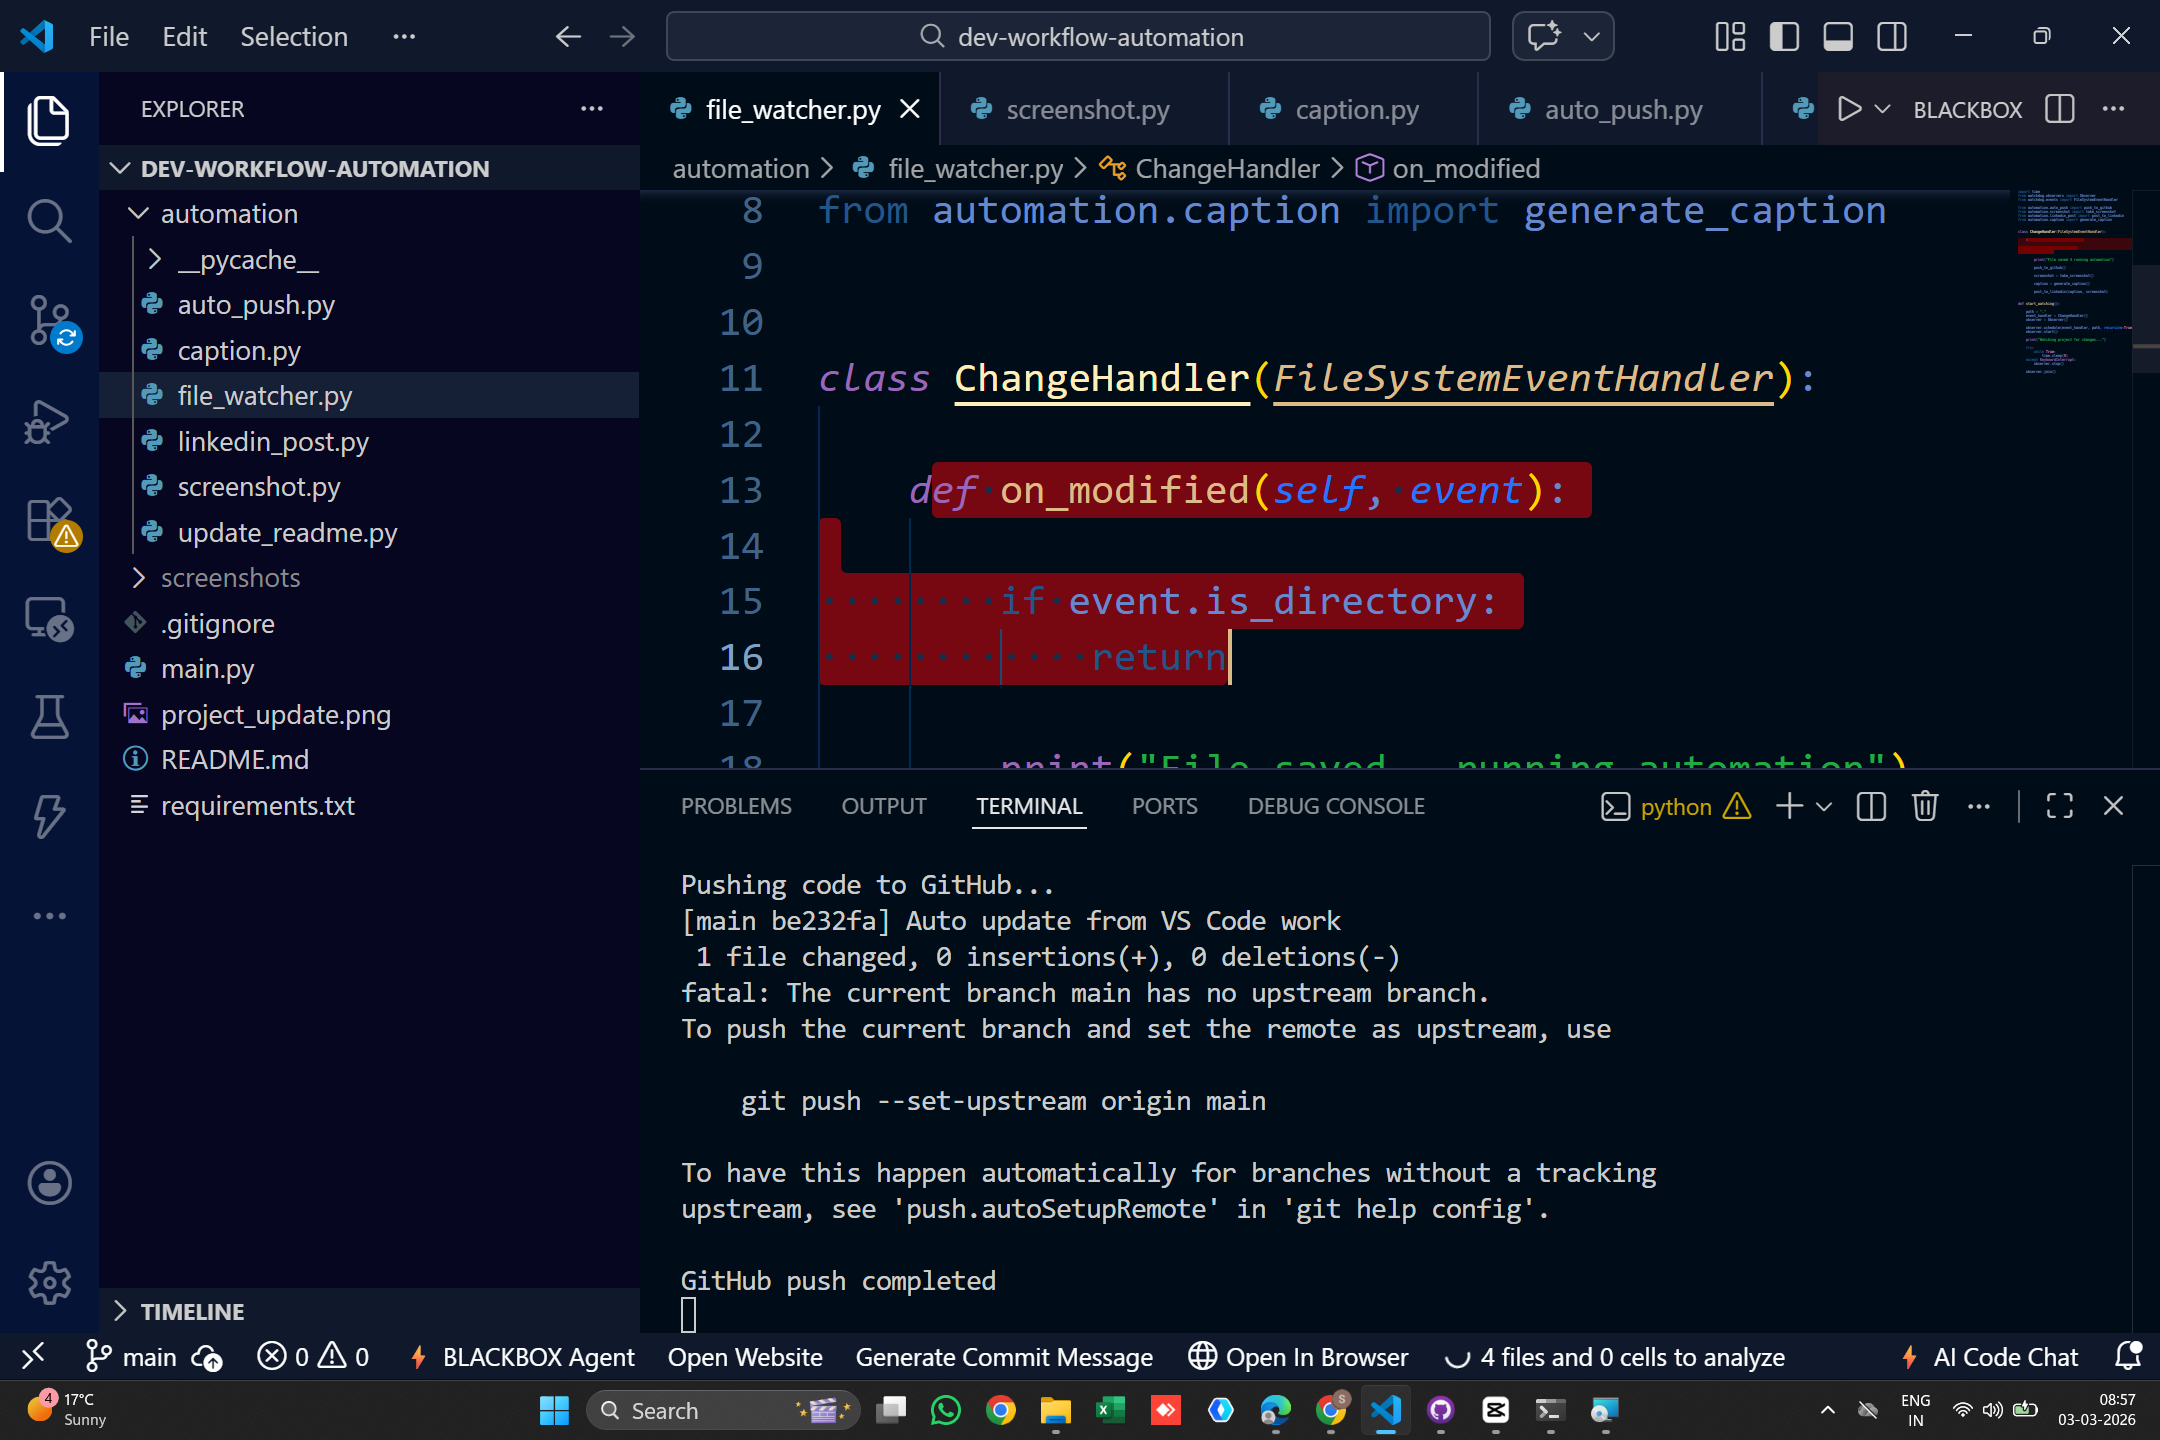
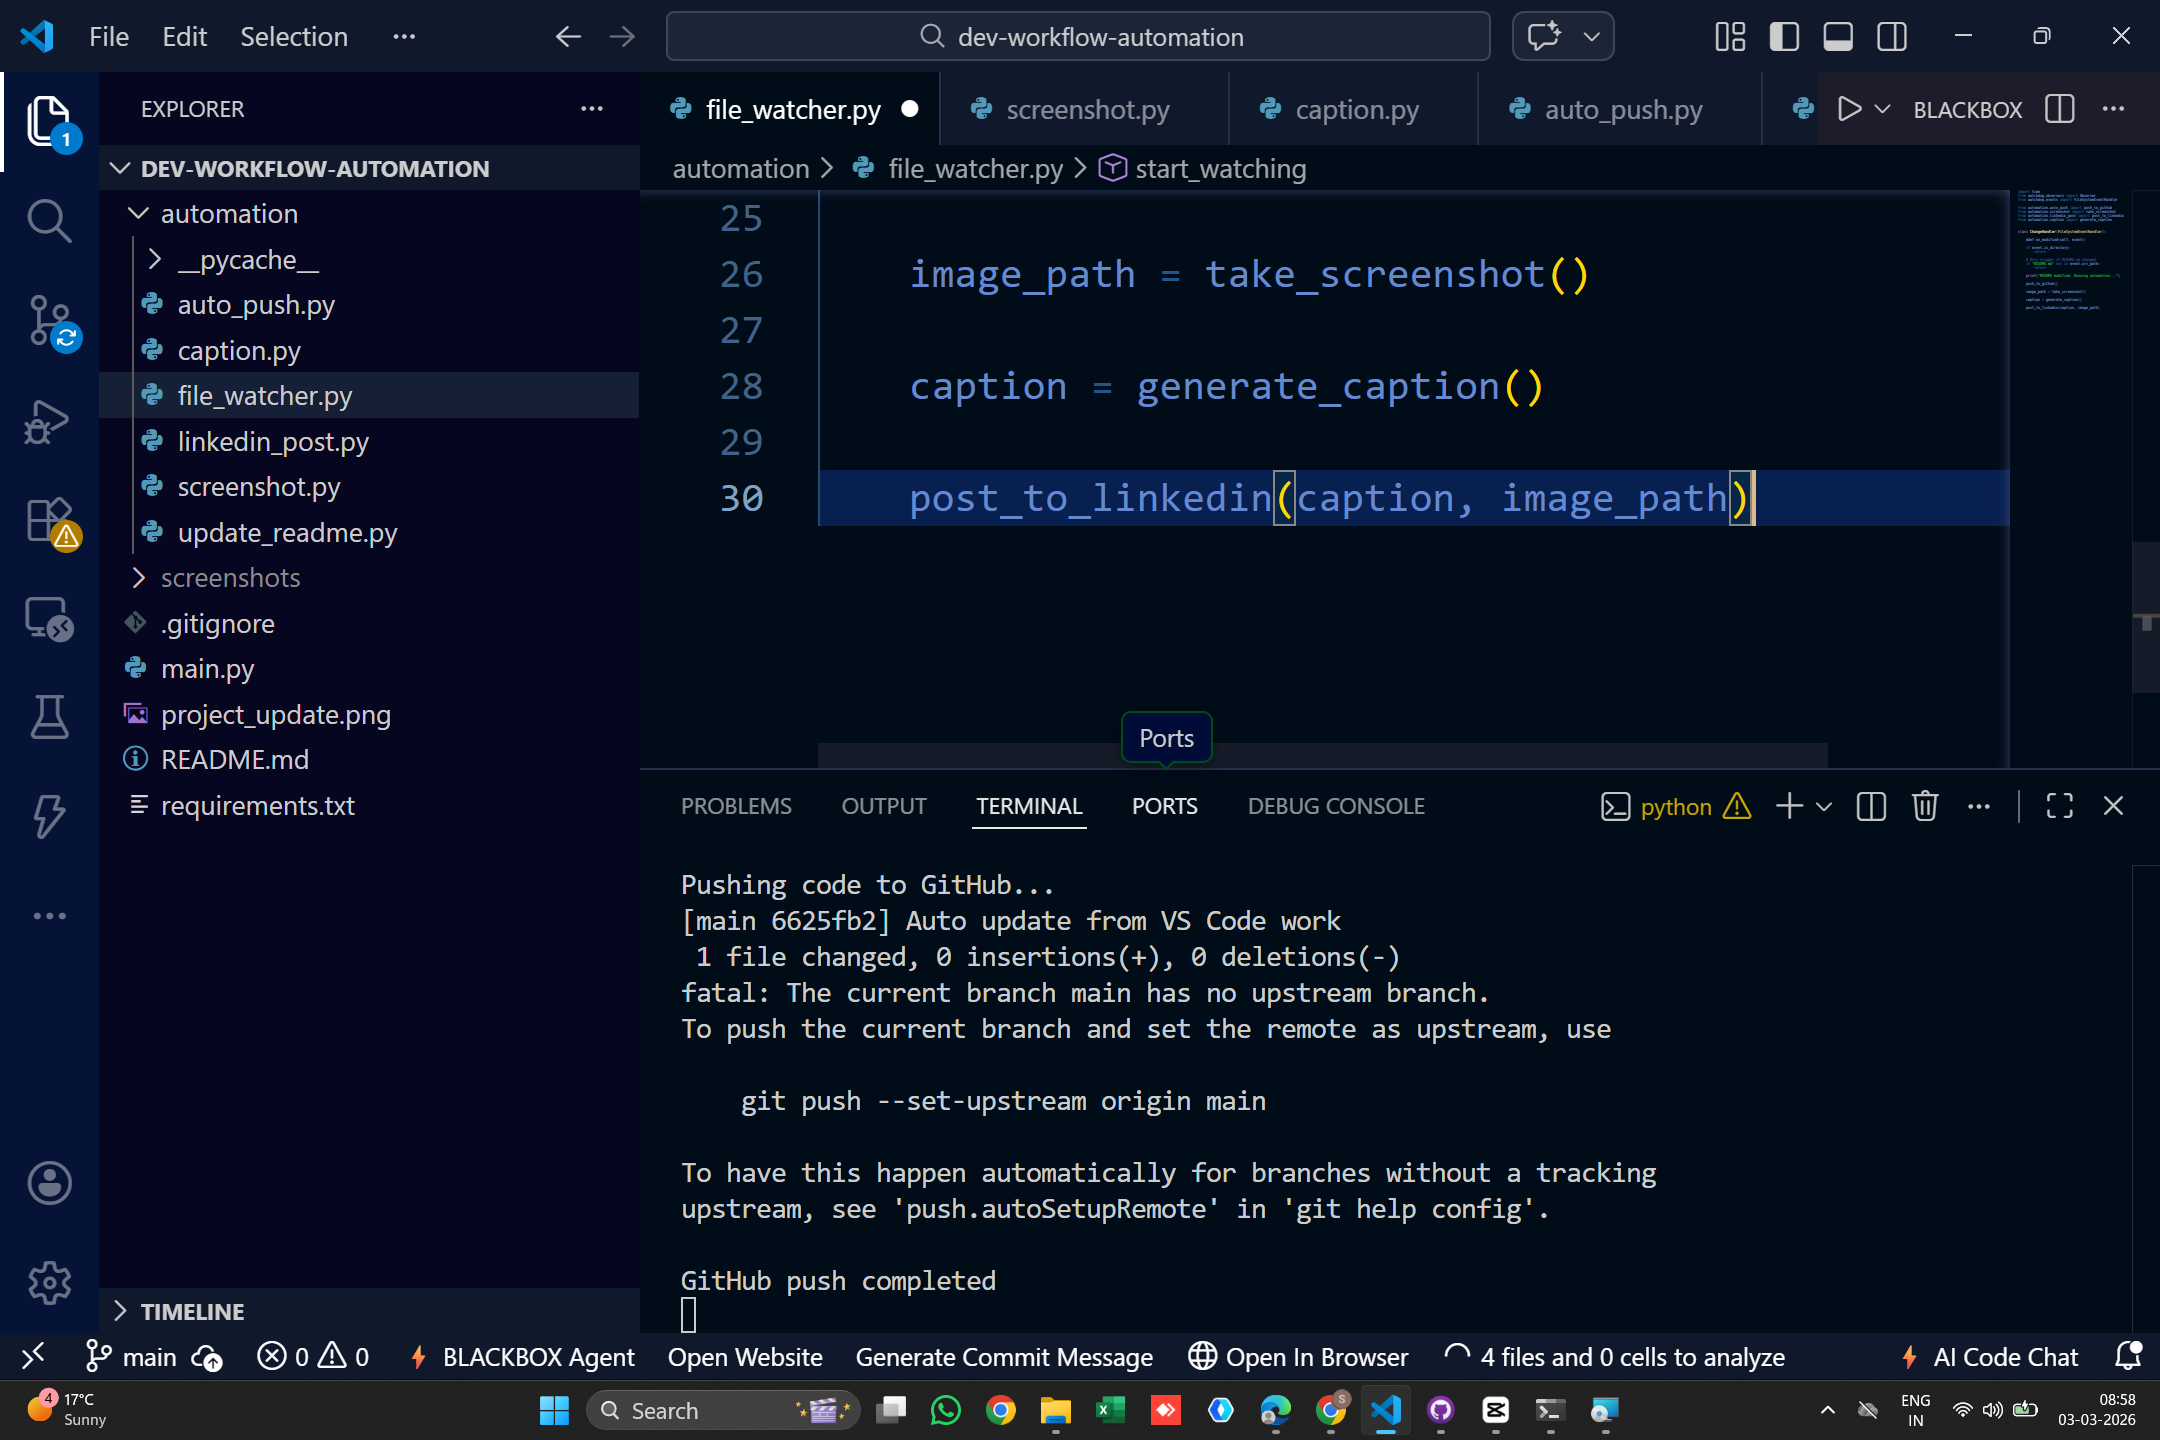
Auto update from VS Code work

diff --git a/automation/file_watcher.py b/automation/file_watcher.py
@@ -10,37 +10,21 @@ from automation.caption import generate_caption
 
 class ChangeHandler(FileSystemEventHandler):
 
-    def on_modified(self, event):
+    ddef on_modified(self, event):
 
-        if event.is_directory:
-            return
+    if event.is_directory:
+        return
 
-        print("File saved — running automation")
+    # Only trigger if README.md changed
+    if "README.md" not in event.src_path:
+        return
 
-        push_to_github()
+    print("README modified. Running automation...")
 
-        screenshot = take_screenshot()
+    push_to_github()
 
-        caption = generate_caption()
+    image_path = take_screenshot()
 
-        post_to_linkedin(caption, screenshot)
+    caption = generate_caption()
 
-
-def start_watching():
-
-    path = "."
-    event_handler = ChangeHandler()
-    observer = Observer()
-
-    observer.schedule(event_handler, path, recursive=True)
-    observer.start()
-
-    print("Watching project for changes...")
-
-    try:
-        while True:
-            time.sleep(5)
-    except KeyboardInterrupt:
-        observer.stop()
-
-    observer.join()
+    post_to_linkedin(caption, image_path)
